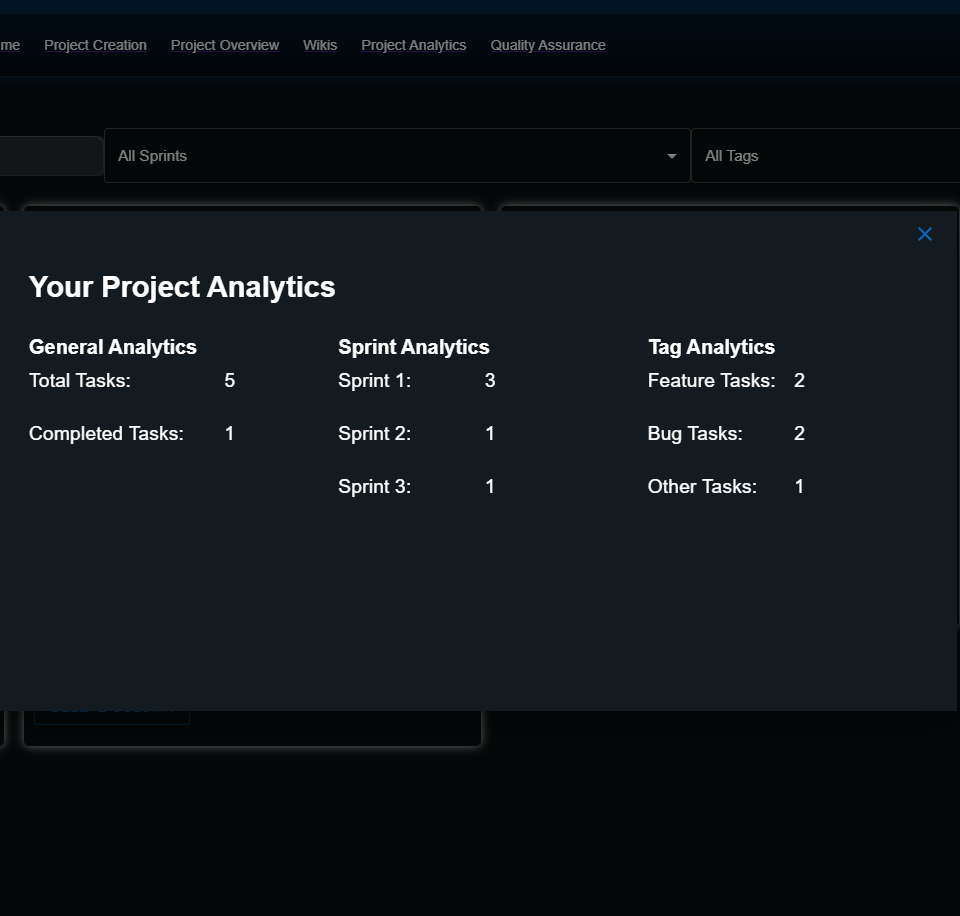
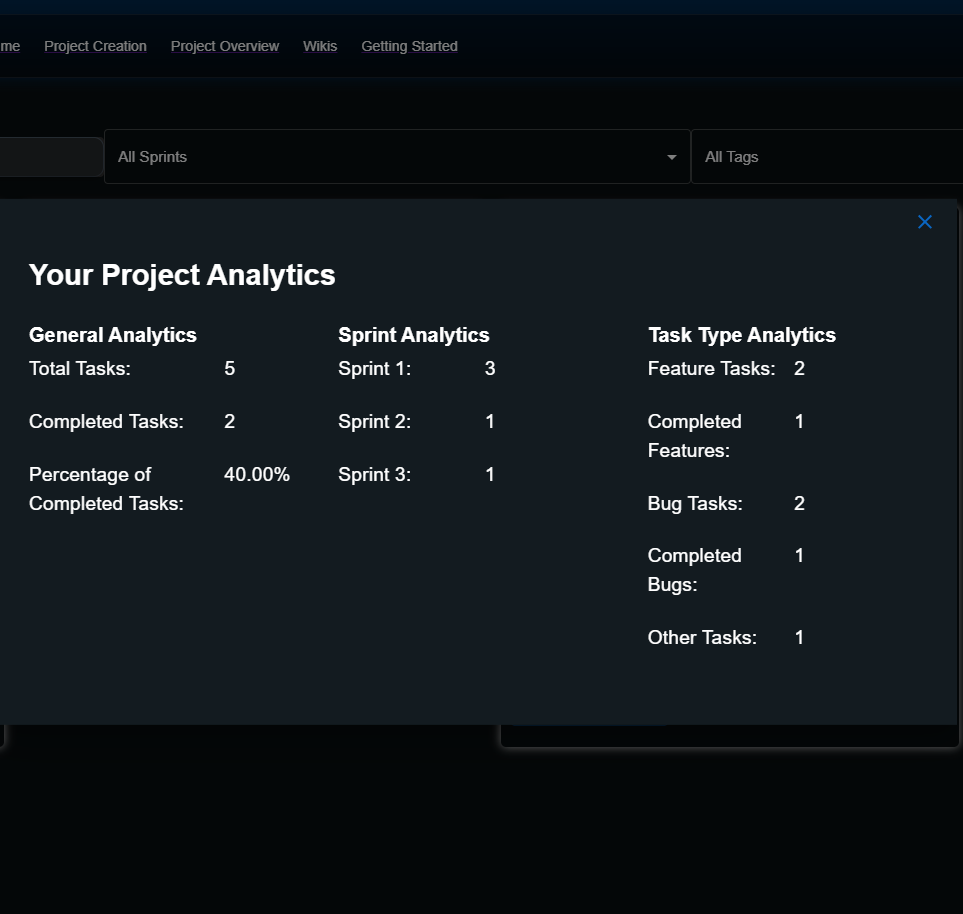
Extras

diff --git a/src/components/ProjectAnalyticsModal.tsx b/src/components/ProjectAnalyticsModal.tsx
@@ -10,7 +10,9 @@ interface ProjectAnalyticsModalProps {
   tasksInSprint2: () => number;
   tasksInSprint3: () => number;
   featureTasks: () => number;
+  completedFeatures: () => number;
   bugTasks: () => number;
+  completedBugs: () => number;
   otherTasks: () => number;
   completedTasks: () => number;
 }
@@ -18,16 +20,19 @@ interface ProjectAnalyticsModalProps {
 const ProjectAnalyticsModal: React.FC<ProjectAnalyticsModalProps> = ({ 
   open,
   onClose,
-  totalTasks:
-  totalTasks,
+  totalTasks: totalTasks,
   tasksInSprint1: tasksInSprint1,
   tasksInSprint2: tasksInSprint2,
   tasksInSprint3: tasksInSprint3,
   featureTasks: featureTasks,
+  completedFeatures: completedFeatures,
   bugTasks: bugTasks,
+  completedBugs: completedBugs,
   otherTasks: otherTasks,
   completedTasks: completedTasks
 }) => {
+
+  const completedPercentage = totalTasks() === 0 ? 0 : (completedTasks() / totalTasks()) * 100;
 
   return (
     <Modal 
@@ -89,6 +94,12 @@ const ProjectAnalyticsModal: React.FC<ProjectAnalyticsModalProps> = ({
               <Grid item xs={2}>
                 <Typography className="analytics-item">{completedTasks()}</Typography>
               </Grid>
+              <Grid item xs={8}>
+                <Typography className="analytics-item">Percentage of Completed Tasks:</Typography>
+              </Grid>
+              <Grid item xs={2}>
+                <Typography className="analytics-item">{completedPercentage.toFixed(2)}%</Typography>
+              </Grid>
             </Grid>
           </Grid>
           <Grid item xs={12} md={4}>
@@ -118,7 +129,7 @@ const ProjectAnalyticsModal: React.FC<ProjectAnalyticsModalProps> = ({
           </Grid>
           <Grid item xs={12} md={4}>
             <Typography variant="h5" gutterBottom>
-              Item Type Analytics
+              Task Type Analytics
             </Typography>
             <Grid container spacing={2}>
               <Grid item xs={6}>
@@ -128,10 +139,22 @@ const ProjectAnalyticsModal: React.FC<ProjectAnalyticsModalProps> = ({
                 <Typography className="analytics-item">{featureTasks()}</Typography>
               </Grid>
               <Grid item xs={6}>
+                <Typography className="analytics-item">Completed Features:</Typography>
+              </Grid>
+              <Grid item xs={6}>
+                <Typography className="analytics-item">{completedFeatures()}</Typography>
+              </Grid>
+              <Grid item xs={6}>
                 <Typography className="analytics-item">Bug Tasks:</Typography>
               </Grid>
               <Grid item xs={6}>
                 <Typography className="analytics-item">{bugTasks()}</Typography>
+              </Grid>
+              <Grid item xs={6}>
+                <Typography className="analytics-item">Completed Bugs:</Typography>
+              </Grid>
+              <Grid item xs={6}>
+                <Typography className="analytics-item">{completedBugs()}</Typography>
               </Grid>
               <Grid item xs={6}>
                 <Typography className="analytics-item">Other Tasks:</Typography>

diff --git a/src/pages/ProjectOverview.tsx b/src/pages/ProjectOverview.tsx
@@ -784,6 +784,14 @@ const KanbanBoard: React.FC = () => {
     return featuresCount;
   };
 
+  const getCompletedFeaturesCount = (): number => {
+    const completedTasks = tasks.Done;
+    
+    const completedFeatures = completedTasks.filter((task: Task) => task.tag === Tag.Tag1);
+    
+    return completedFeatures.length;
+  };  
+
   const getBugsCount = (): number => {
     const bugTasks = Object.values(tasks).flatMap(columnTasks =>
       columnTasks.filter((task: Task) => task.tag === Tag.Tag2)
@@ -793,6 +801,15 @@ const KanbanBoard: React.FC = () => {
   
     return bugsCount;
   };
+
+  
+  const getCompletedBugsCount = (): number => {
+    const completedTasks = tasks.Done;
+    
+    const completedBugs = completedTasks.filter((task: Task) => task.tag === Tag.Tag2);
+    
+    return completedBugs.length;
+  };  
 
   const getOtherTagsCount = (): number => {
     const epicTasks = Object.values(tasks).flatMap(columnTasks =>
@@ -845,13 +862,13 @@ const KanbanBoard: React.FC = () => {
             ))}
           </Select>
 
-          <Button
+          {/* <Button
             variant="outlined"
             onClick={handleOpenTestPlansModal}
             style={{ marginLeft: '8px' }}
           >
             Test Plans
-          </Button>
+          </Button> */}
 
           <Button
             variant="outlined"
@@ -996,7 +1013,9 @@ const KanbanBoard: React.FC = () => {
               tasksInSprint2={getItemsInSprint2Count}
               tasksInSprint3={getItemsInSprint3Count}
               featureTasks={getFeaturesCount}
+              completedFeatures={getCompletedFeaturesCount}
               bugTasks={getBugsCount}
+              completedBugs={getCompletedBugsCount}
               otherTasks={getOtherTagsCount}
               completedTasks={getCompletedTasksCount}
             />
